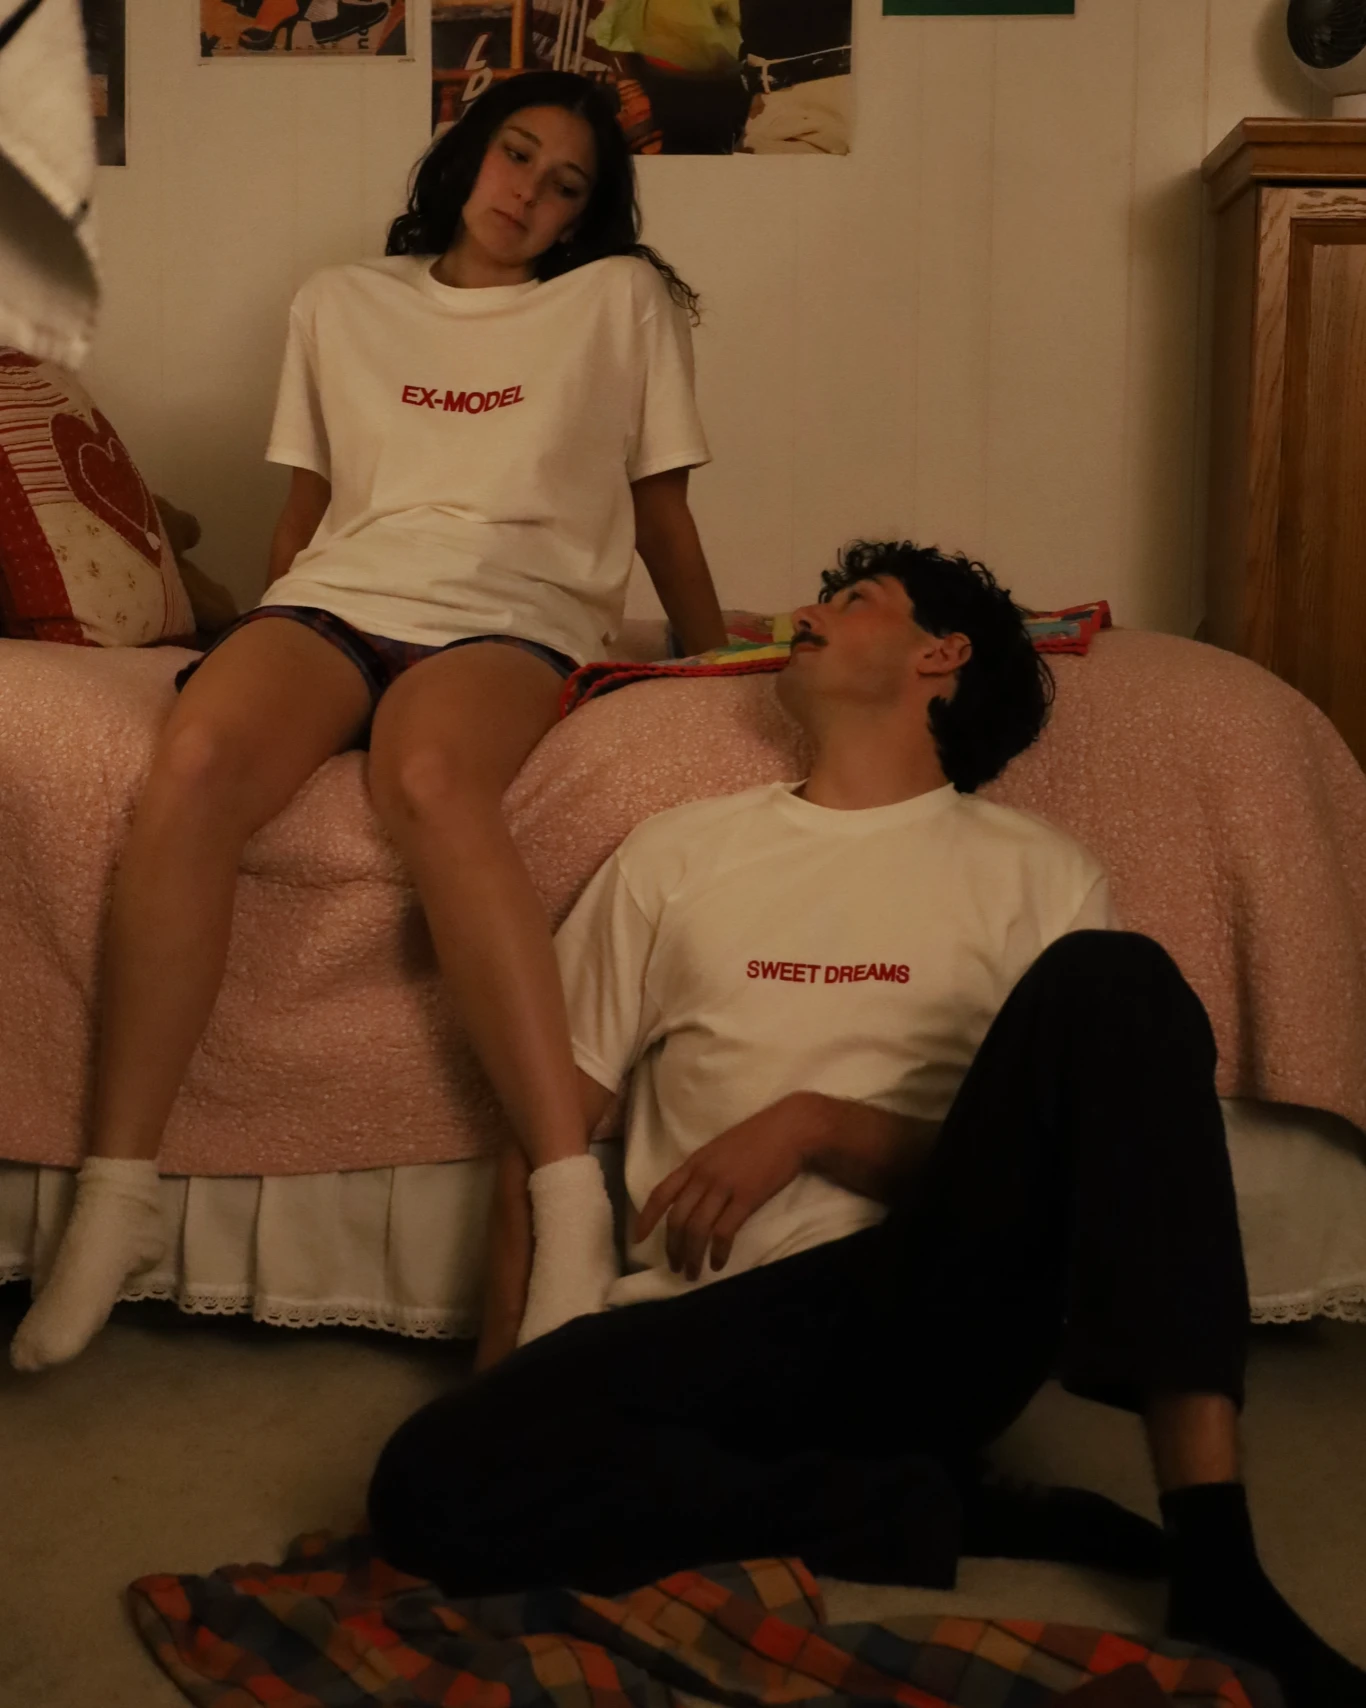
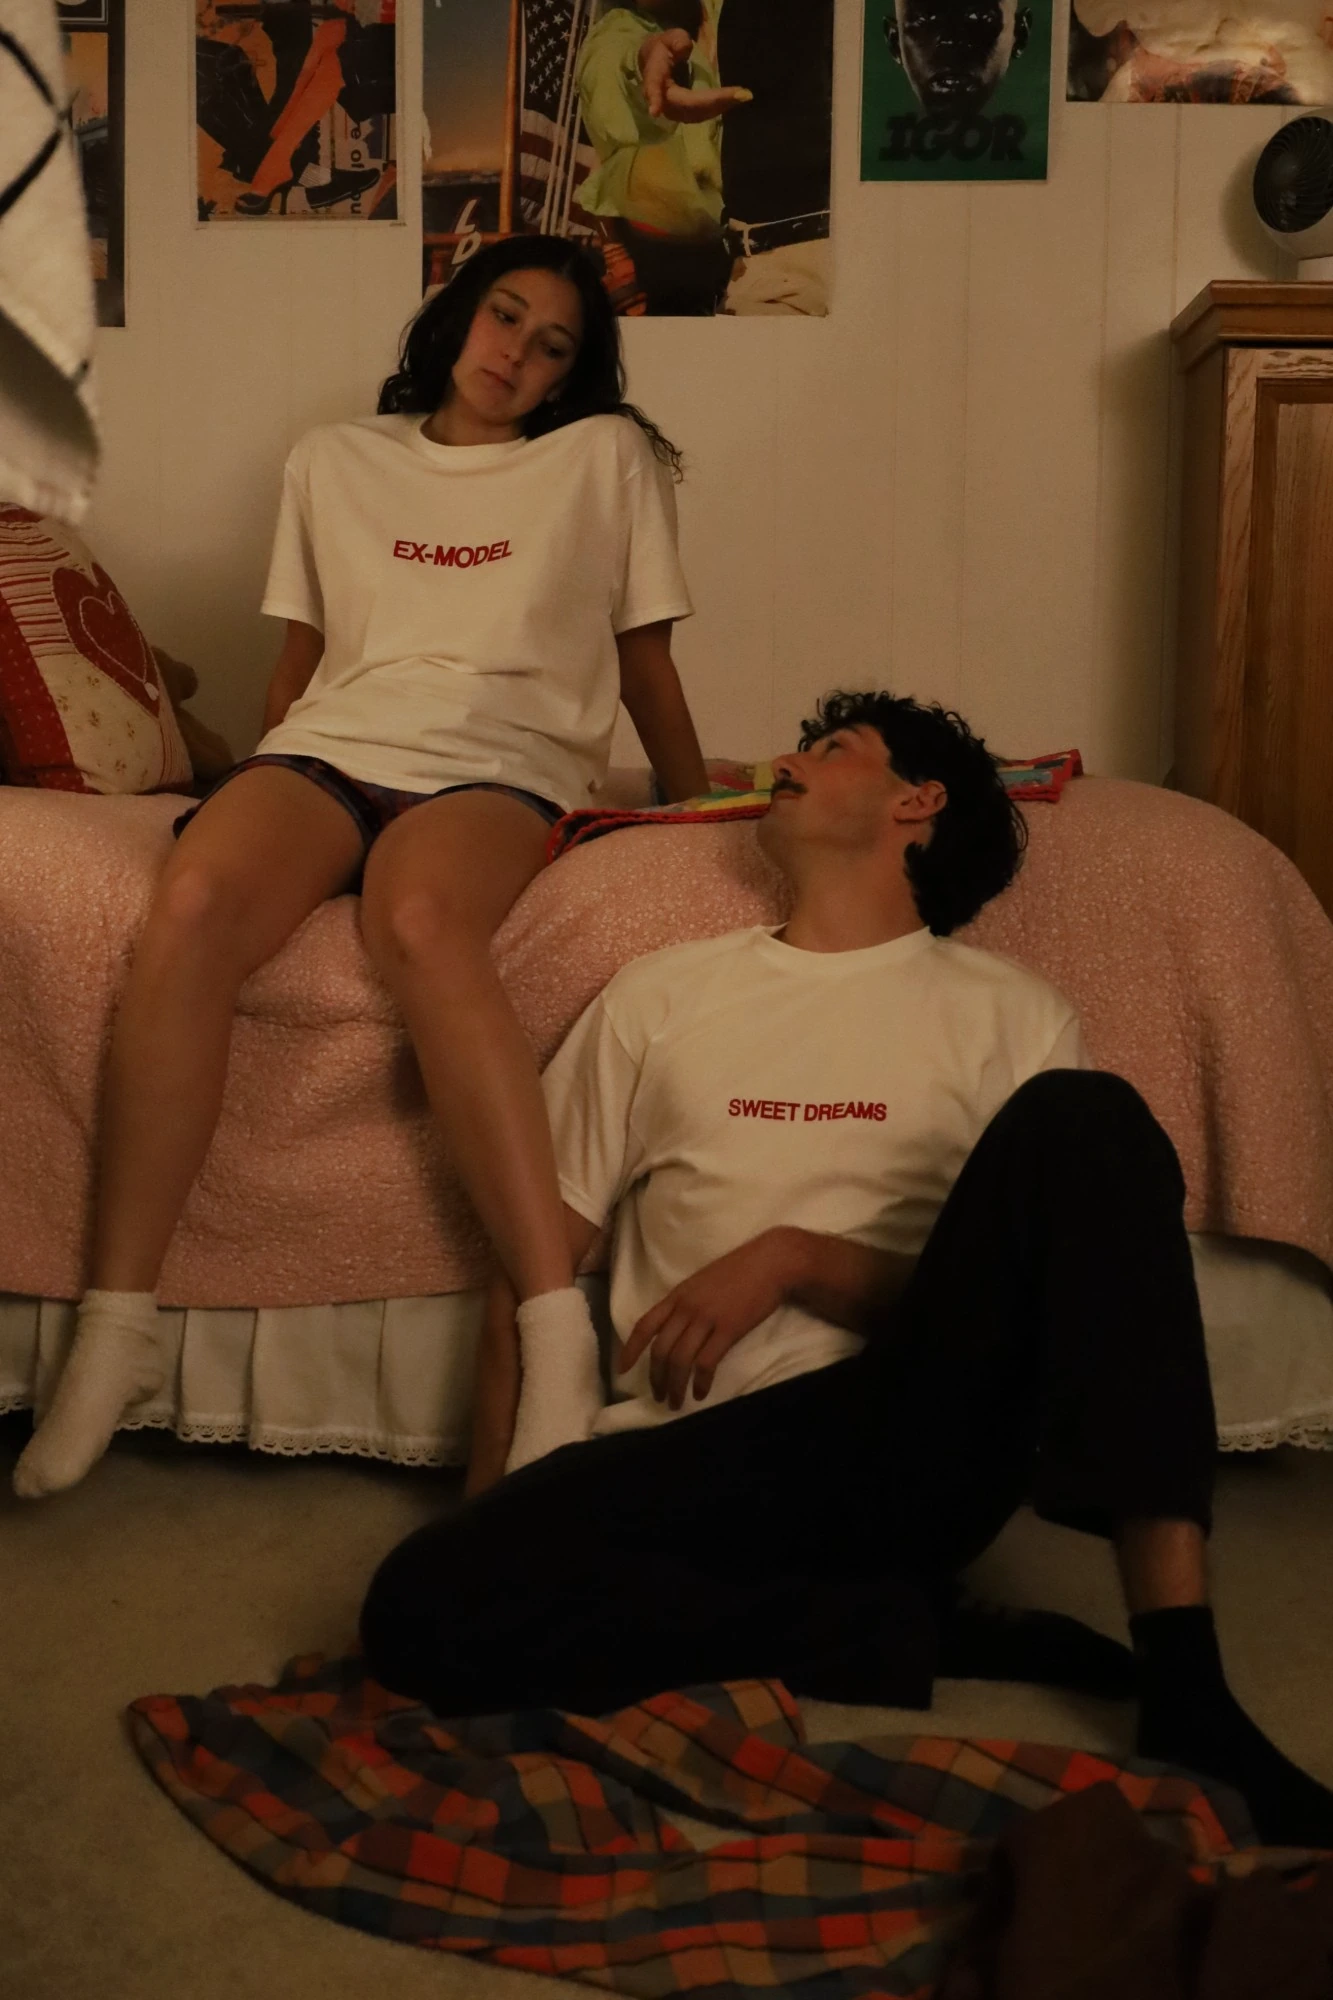
sleep shirts: full-size graded gallery photos, framed per image

diff --git a/features/storefront/lib/product-gallery.ts b/features/storefront/lib/product-gallery.ts
@@ -6,7 +6,13 @@
 //
 // Alt text stays in the register of the other lifestyle shots; the models'
 // names live in `products.model_credits`, not here.
-export type GalleryImage = { src: string; alt: string };
+export type GalleryImage = {
+  src: string;
+  alt: string;
+  /** CSS object-position for a photograph taller than its 4:5 frame: which part
+   * of it the frame shows. Centred when left out. */
+  position?: string;
+};
 
 function shots(slug: string, count: number, alt: string): GalleryImage[] {
   return Array.from({ length: count }, (_, index) => ({
@@ -15,16 +21,24 @@ function shots(slug: string, count: number, alt: string): GalleryImage[] {
   }));
 }
 
-// The same files in an order of their own: the numbers are the files' names, so
-// a new photograph can take a place in the run without renaming the rest.
-function shotsInOrder(
-  slug: string,
-  order: number[],
-  alt: string,
-): GalleryImage[] {
-  return order.map((number) => ({
-    src: `/gallery/${slug}-${number}.webp`,
-    alt,
+function sleepShirtShots(): GalleryImage[] {
+  const framing: [number, number][] = [
+    [1, 99],
+    [2, 48],
+    [3, 50],
+    [4, 57],
+    [5, 1],
+    [6, 99],
+    [7, 100],
+    [8, 0],
+    [9, 0],
+    [10, 65],
+    [11, 0],
+  ];
+  return framing.map(([number, y]) => ({
+    src: `/gallery/sleep-shirt-${number}.webp`,
+    alt: "Sleep Shirt lifestyle shot",
+    position: `50% ${y}%`,
   }));
 }
 
@@ -38,12 +52,11 @@ const GALLERIES: Record<string, GalleryImage[]> = {
     "Lurker Long Sleeve lifestyle shot",
   ),
   "star-shorts": shots("star-shorts", 4, "Star Shorts lifestyle shot"),
-  // The couch photograph (12) sits third, behind the two that lead.
-  "sleep-shirt": shotsInOrder(
-    "sleep-shirt",
-    [1, 2, 12, 3, 4, 5, 6, 7, 8, 9, 10, 11],
-    "Sleep Shirt lifestyle shot",
-  ),
+  // The Sleep Shirt photographs are kept whole (2:3), so each frame shows the
+  // part the founder framed; the number is the file's, the percentage how far
+  // down the photograph the 4:5 frame sits. The couch photograph (12) is a second
+  // copy of the first, so it is not listed.
+  "sleep-shirt": sleepShirtShots(),
 };
 
 export function getProductGallery(slug: string): GalleryImage[] {

diff --git a/features/storefront/components/product-gallery/product-gallery.tsx b/features/storefront/components/product-gallery/product-gallery.tsx
@@ -63,6 +63,11 @@ export function ProductGallery({ images }: { images: GalleryImage[] }) {
                   className={
                     isOrphan ? "object-cover object-[50%_38%]" : "object-cover"
                   }
+                  style={
+                    !isOrphan && image.position
+                      ? { objectPosition: image.position }
+                      : undefined
+                  }
                 />
               </button>
             </li>
